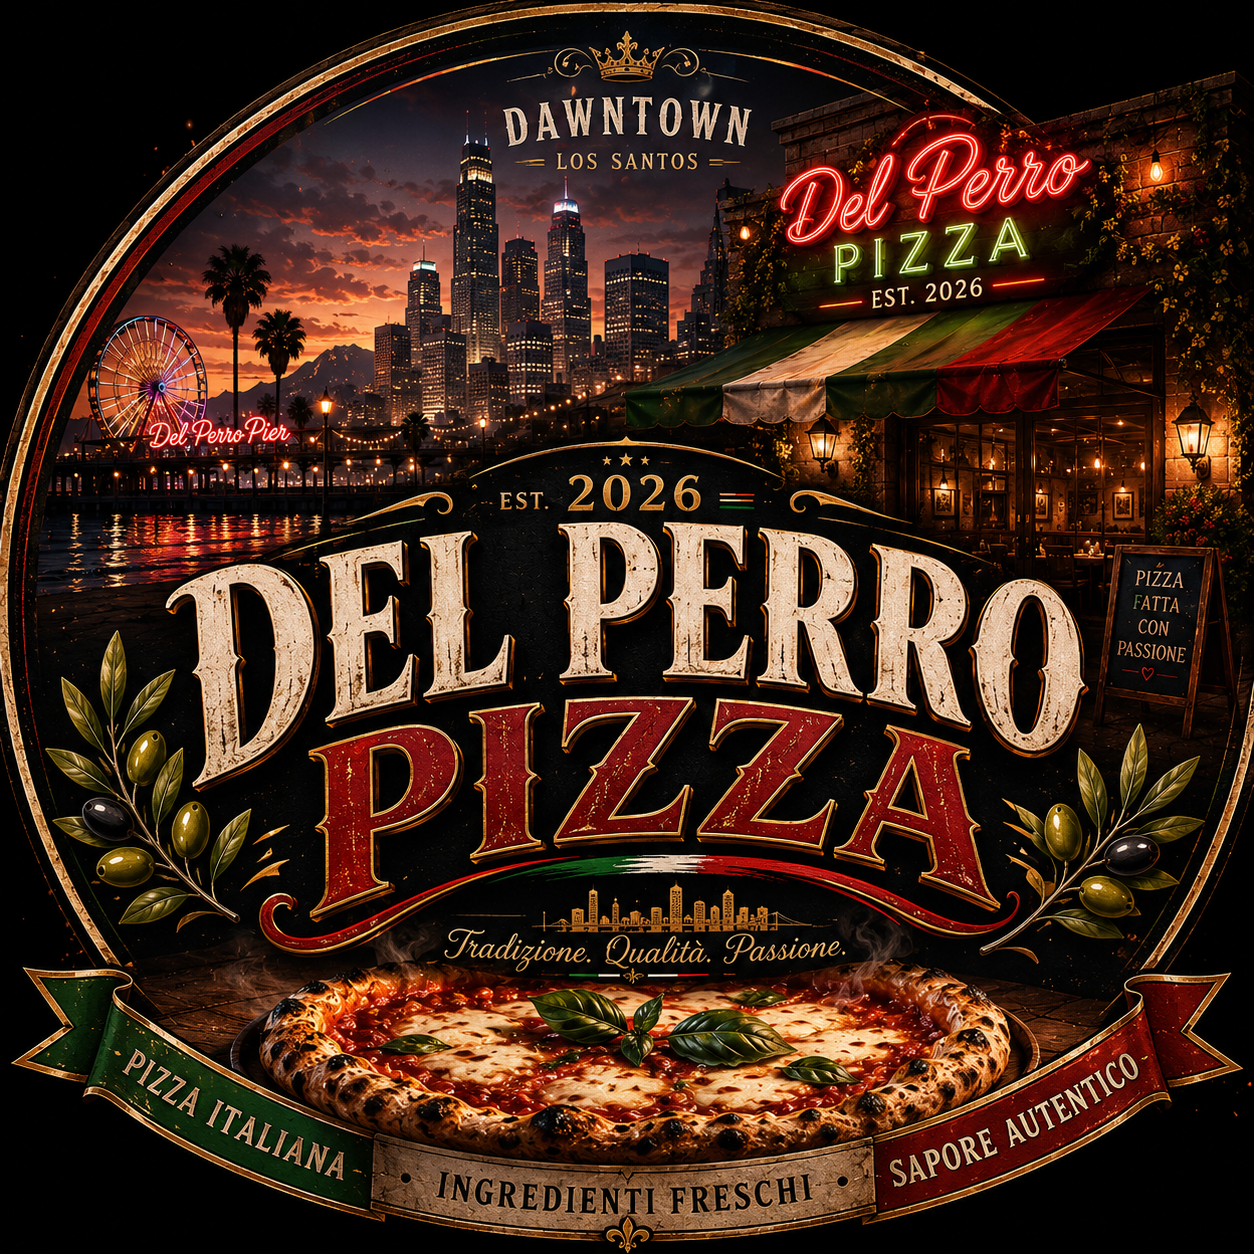
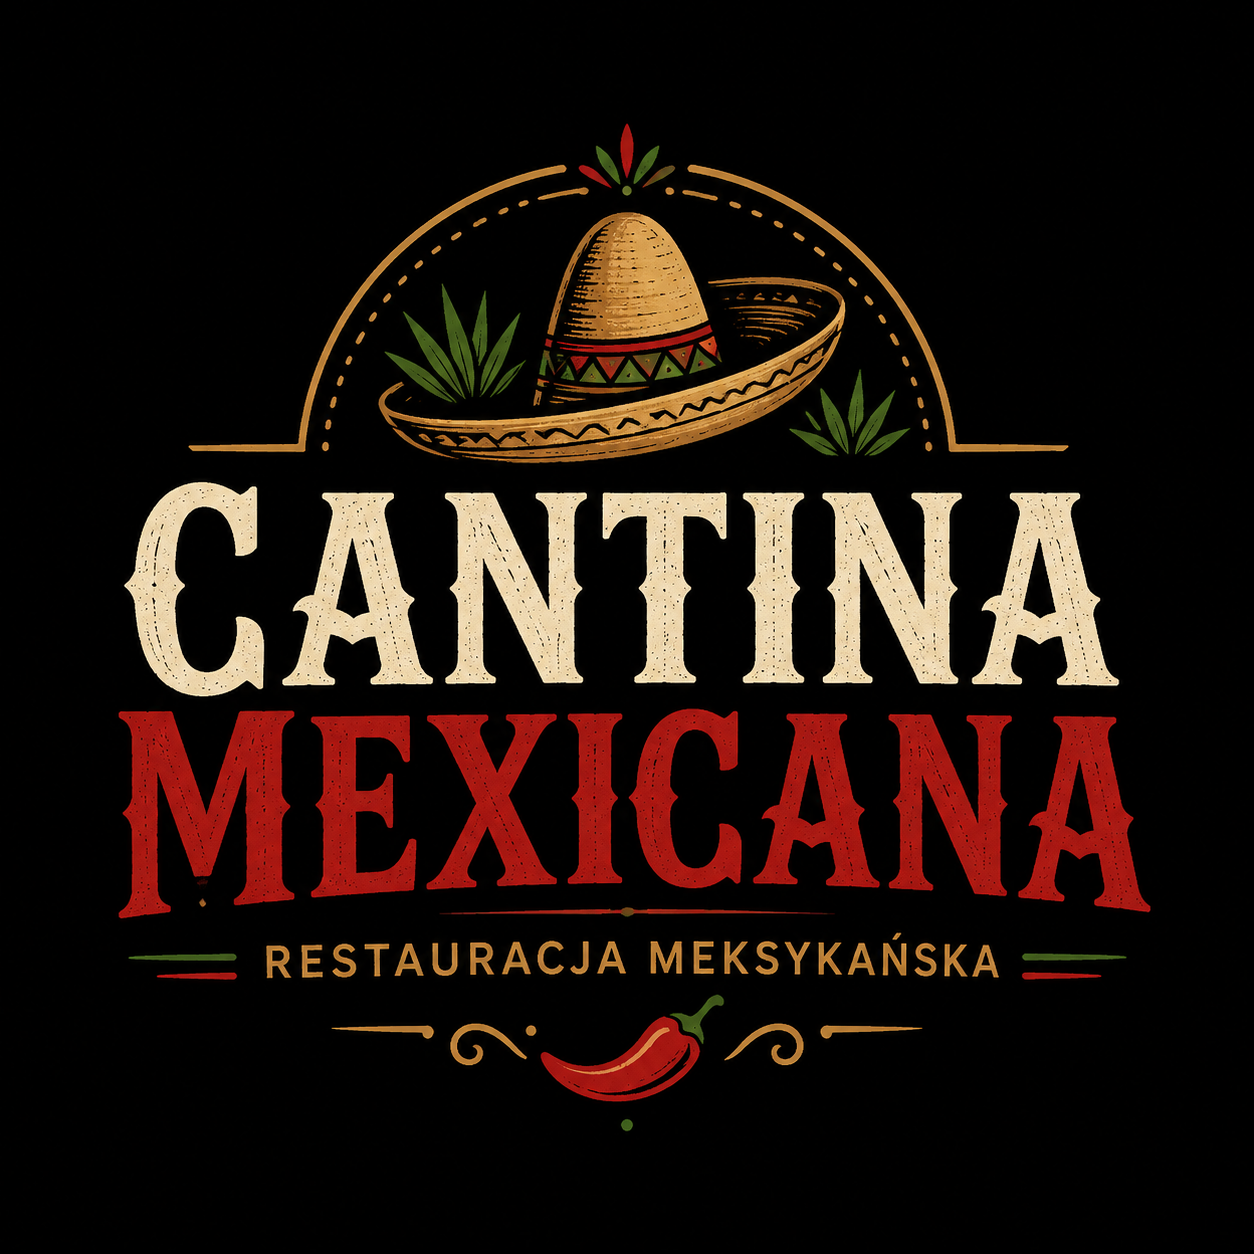
Add files via upload
1.5

diff --git a/index.html b/index.html
@@ -3,163 +3,161 @@
 <head>
   <meta charset="UTF-8" />
   <meta name="viewport" content="width=device-width, initial-scale=1.0" />
-  <title>V&G Logistic | Sandy Shores Freight Company</title>
-  <meta name="description" content="V&G Logistic — amerykański styl transportu, flota, partnerzy, rekrutacja i regulamin firmy." />
+  <title>V&G Logistic | Sandy Shores Trucking</title>
+  <meta name="description" content="V&G Logistic — amerykańska firma transportowa z Sandy Shores na GrandRP." />
   <link rel="stylesheet" href="style.css" />
 </head>
 <body>
-  <header class="topbar">
-    <a class="brand" href="#home" aria-label="V&G Logistic">
-      <img src="assets/vg-logo.svg" alt="V&G Logistic logo" />
+  <header class="site-header">
+    <a href="#home" class="brand">
+      <img src="assets/vg-logo.png" alt="V&G Logistic logo" />
+      <div>
+        <strong>V&G Logistic</strong>
+        <span>Sandy Shores Trucking</span>
+      </div>
     </a>
-    <button class="menuBtn" aria-label="Otwórz menu">☰</button>
-    <nav class="nav">
-      <a href="#about">O firmie</a>
-      <a href="#fleet">Flota</a>
+    <nav class="nav" id="nav">
+      <a href="#about">Firma</a>
+      <a href="#stats">Statystyki</a>
       <a href="#board">Zarząd</a>
       <a href="#partners">Partnerzy</a>
       <a href="#rules">Regulamin</a>
-      <a class="navCta" href="https://discord.gg/ndBvu5FVkG" target="_blank" rel="noopener">Discord</a>
+      <a class="nav-btn" href="https://discord.gg/ndBvu5FVkG" target="_blank" rel="noreferrer">Discord</a>
     </nav>
+    <button class="menu-btn" id="menuBtn" aria-label="Otwórz menu">☰</button>
   </header>
 
-  <main id="home">
-    <section class="hero">
-      <div class="heroOverlay"></div>
-      <div class="heroContent reveal">
-        <p class="eyebrow">Sandy Shores • Blaine County • American Freight</p>
-        <h1>V&G Logistic</h1>
-        <p class="lead">Transport w stylu USA. Ciężka robota, konkretna flota i dostawy robione na czas.</p>
-        <div class="heroActions">
-          <a class="btn primary" href="https://discord.gg/ndBvu5FVkG" target="_blank" rel="noopener">Dołącz do Discorda</a>
-          <a class="btn secondary" href="#rules">Zobacz regulamin</a>
+  <main>
+    <section class="hero" id="home">
+      <div class="hero-overlay"></div>
+      <div class="hero-content reveal">
+        <p class="eyebrow">Sandy Shores • San Andreas • Est. 2026</p>
+        <h1>American trucking, western grit, V&G standard.</h1>
+        <p class="lead">V&G Logistic to firma transportowa w klimacie USA — ciężki transport, szybka organizacja, profesjonalny zarząd i codzienna praca kierowców na najwyższym poziomie.</p>
+        <div class="hero-actions">
+          <a href="https://discord.gg/ndBvu5FVkG" target="_blank" rel="noreferrer" class="btn primary">Dołącz do Discorda</a>
+          <a href="#rules" class="btn secondary">Zobacz regulamin</a>
         </div>
       </div>
-      <div class="heroBadge reveal">
-        <span>V&G</span>
-        <strong>Dowozimy na czas. Zawsze.</strong>
+      <div class="hero-card reveal">
+        <img src="assets/vg-logo.png" alt="V&G Logistic" />
+        <h3>Dowozimy na czas. Zawsze.</h3>
+        <p>Nowy styl V&G Logistic: Sandy Shores, złoto, czerń, stal i klimat amerykańskiej drogi.</p>
       </div>
     </section>
 
-    <section class="stats section">
+    <section class="section" id="about">
+      <div class="section-head reveal">
+        <p class="eyebrow">Company update</p>
+        <h2>Nowy rozdział V&G Logistic</h2>
+        <p>Firma rozwija flotę, partnerstwa i zaplecze logistyczne. Działamy z Sandy Shores, ale skala pracy rośnie z każdym tygodniem.</p>
+      </div>
+      <div class="cards three">
+        <article class="card reveal"><span>01</span><h3>Flota w rozbudowie</h3><p>Aktualnie firma posiada 2 ciężarówki, a kolejne 3 są już w drodze od dealera.</p></article>
+        <article class="card reveal"><span>02</span><h3>Zaplecze techniczne</h3><p>Wkrótce ruszą dostawy części mechanicznych z innego stanu specjalizującego się w produkcji podzespołów do ciężkiego transportu.</p></article>
+        <article class="card reveal"><span>03</span><h3>Dostawy dla biznesów</h3><p>Rozszerzamy transport składników do restauracji oraz partnerów współpracujących z V&G Logistic.</p></article>
+      </div>
+    </section>
+
+    <section class="stats" id="stats">
       <div class="stat reveal"><strong data-count="1000">0</strong><span>kursów tygodniowo</span></div>
-      <div class="stat reveal"><strong data-count="2">0</strong><span>ciężarówki aktywne</span></div>
-      <div class="stat reveal"><strong data-count="3">0</strong><span>ciężarówki w drodze</span></div>
-      <div class="stat reveal"><strong>24/7</strong><span>gotowość operacyjna</span></div>
+      <div class="stat reveal"><strong data-count="2">0</strong><span>ciężarówki w firmie</span></div>
+      <div class="stat reveal"><strong data-count="3">0</strong><span>w drodze od dealera</span></div>
+      <div class="stat reveal"><strong data-count="3">0</strong><span>partnerów</span></div>
     </section>
 
-    <section id="about" class="section split">
-      <div class="sectionText reveal">
-        <p class="eyebrow">Nowy kierunek</p>
-        <h2>Amerykański charakter V&G</h2>
-        <p>V&G Logistic działa z bazy w Sandy Shores i rozwija się jako firma transportowa w klimacie amerykańskich przewoźników. Stawiamy na porządek, hierarchię, dyscyplinę i konkretną organizację pracy.</p>
-        <p>Strona, logo i cała identyfikacja firmy zostały przebudowane pod styl premium: ciemne tło, złote akcenty, klimat pustyni i ciężkiego transportu z Blaine County.</p>
+    <section class="section split">
+      <div class="reveal">
+        <p class="eyebrow">Recruitment standard</p>
+        <h2>Nie każdy nadaje się za kierownicę.</h2>
+        <p>Kandydaci na kierowców będą przechodzić rozmowy oraz badania psychologiczne, które pozwolą sprawdzić ich predyspozycje do pracy w transporcie.</p>
       </div>
-      <div class="updatePanel reveal">
-        <h3>Aktualizacja firmy</h3>
+      <div class="notice reveal">
+        <h3>Najważniejsze zasady pracy</h3>
         <ul>
-          <li>Około <b>1.000 kursów tygodniowo</b>.</li>
-          <li><b>2 ciężarówki</b> w stałej pracy.</li>
-          <li><b>3 kolejne ciężarówki</b> jadą od dealera.</li>
-          <li>Części do mechanika sprowadzane z <b>Detroit, Michigan</b> — miasta znanego z motoryzacji.</li>
-          <li>Transport składników dla restauracji i partnerów biznesowych.</li>
-          <li>Badania psychologiczne dla kandydatów na kierowców.</li>
+          <li>Punktualność i odpowiedzialność na trasie.</li>
+          <li>Dbanie o wizerunek V&G Logistic.</li>
+          <li>Pełne przestrzeganie zasad IC i OOC.</li>
         </ul>
       </div>
     </section>
 
-    <section id="fleet" class="section darkBlock">
-      <div class="sectionHead reveal">
-        <p class="eyebrow">Fleet Department</p>
-        <h2>Flota i zaplecze techniczne</h2>
-        <p>V&G Logistic inwestuje w pojazdy, serwis i sprawną obsługę tras z Sandy Shores.</p>
-      </div>
-      <div class="cards three">
-        <article class="card reveal"><span class="cardIcon">🚛</span><h3>Ciężarówki aktywne</h3><p>Na ten moment firma posiada 2 ciężarówki, które obsługują regularne zlecenia transportowe.</p></article>
-        <article class="card reveal"><span class="cardIcon">🏭</span><h3>Nowe pojazdy</h3><p>3 kolejne ciężarówki są już w drodze od dealera i wkrótce powiększą flotę V&G.</p></article>
-        <article class="card reveal"><span class="cardIcon">🔧</span><h3>Mechanik i części</h3><p>Zaplecze serwisowe będzie wspierane dostawami części z Detroit, Michigan — prosto z amerykańskiego motor city.</p></article>
-      </div>
-    </section>
-
-    <section id="board" class="section">
-      <div class="sectionHead reveal">
-        <p class="eyebrow">Company Board</p>
+    <section class="section" id="board">
+      <div class="section-head reveal">
+        <p class="eyebrow">Management</p>
         <h2>Zarząd V&G Logistic</h2>
       </div>
-      <div class="teamGrid">
-        <article class="person gold reveal"><span>Dyrektor Logistyki</span><h3>Wade Wilson</h3><p>Założyciel i właściciel V&G Logistic. Odpowiada za rozwój firmy, strategię i najważniejsze decyzje.</p></article>
-        <article class="person red reveal"><span>Zastępca Dyrektora</span><h3>Carlo Gaviria</h3><p>Wspiera zarządzanie firmą, nadzoruje działania operacyjne i dba o sprawne funkcjonowanie przedsiębiorstwa.</p></article>
-        <article class="person red reveal"><span>Zastępca Dyrektora</span><h3>Vincent Davis</h3><p>Koordynuje codzienną pracę firmy, wspiera rozwój organizacji i realizację celów V&G Logistic.</p></article>
-        <article class="person purple reveal"><span>Koordynator Logistyki</span><h3>Liza Wilson</h3><p>Odpowiada za organizację pracy zespołu, rekrutację oraz rozwój pracowników.</p></article>
-        <article class="person purple reveal"><span>Koordynator Logistyki</span><h3>Logan Reyes</h3><p>Nadzoruje szkolenia, wspiera kierowców i utrzymuje kontakt między pracownikami a zarządem.</p></article>
+      <div class="board-grid">
+        <article class="person gold reveal"><small>Dyrektor Logistyki</small><h3>Wade Wilson</h3><p>Założyciel i właściciel firmy. Odpowiada za strategię, rozwój oraz najważniejsze decyzje V&G Logistic.</p></article>
+        <article class="person red reveal"><small>Zastępca Dyrektora</small><h3>Carlo Gaviria</h3><p>Wspiera zarządzanie firmą, nadzoruje bieżące działania i dba o sprawne funkcjonowanie przedsiębiorstwa.</p></article>
+        <article class="person red reveal"><small>Zastępca Dyrektora</small><h3>Vincent Davis</h3><p>Współzarządza firmą, koordynuje działania operacyjne oraz wspiera rozwój organizacji.</p></article>
+        <article class="person purple reveal"><small>Koordynator Logistyki</small><h3>Liza Wilson</h3><p>Odpowiada za organizację pracy zespołu, rekrutację oraz rozwój pracowników.</p></article>
+        <article class="person purple reveal"><small>Koordynator Logistyki</small><h3>Logan Reyes</h3><p>Nadzoruje szkolenia, wspiera kierowców i odpowiada za kontakt między pracownikami a zarządem.</p></article>
       </div>
     </section>
 
-    <section id="partners" class="section darkBlock">
-      <div class="sectionHead reveal">
-        <p class="eyebrow">Business Network</p>
-        <h2>Partnerzy V&G Logistic</h2>
-        <p>Obsługujemy transport i współpracę biznesową z lokalnymi markami.</p>
+    <section class="partners section" id="partners">
+      <div class="section-head reveal">
+        <p class="eyebrow">Business network</p>
+        <h2>Nasi partnerzy</h2>
+        <p>Firmy i jednostki współpracujące z V&G Logistic przy dostawach, logistyce oraz obsłudze operacyjnej.</p>
       </div>
-      <div class="partnersGrid">
-        <div class="partner reveal"><img src="assets/del-perro-pizza.png" alt="Del Perro Pizza"><span>Del Perro Pizza</span></div>
-        <div class="partner reveal"><img src="assets/cantina-mexicana.png" alt="Cantina Mexicana"><span>Cantina Mexicana</span></div>
-        <div class="partner reveal"><img src="assets/ems.png" alt="EMS"><span>EMS</span></div>
-        <div class="partner reveal"><img src="assets/partner-r.png" alt="Partner"><span>Partner biznesowy</span></div>
-      </div>
-    </section>
-
-    <section class="section recruitment">
-      <div class="sectionText reveal">
-        <p class="eyebrow">Recruitment</p>
-        <h2>Rekrutacja kierowców</h2>
-        <p>Kandydaci do V&G Logistic przechodzą proces sprawdzający predyspozycje do pracy w transporcie. Liczy się kultura, odpowiedzialność i gotowość do pracy zgodnie z zasadami firmy.</p>
-      </div>
-      <div class="recruitBox reveal">
-        <h3>Wymagamy</h3>
-        <p>Aktywności, znajomości zasad RP, szacunku do zarządu, stroju roboczego, plakietki z imieniem i nazwiskiem oraz obecności na radiu podczas pracy.</p>
-        <a class="btn primary" href="https://discord.gg/ndBvu5FVkG" target="_blank" rel="noopener">Aplikuj na Discordzie</a>
+      <div class="partner-grid">
+        <article class="partner reveal">
+          <img src="assets/cantina-mexicana.png" alt="Cantina Mexicana" />
+          <h3>Cantina Mexicana</h3>
+          <p>Restauracja meksykańska</p>
+        </article>
+        <article class="partner reveal">
+          <img src="assets/ems.png" alt="EMS" />
+          <h3>EMS</h3>
+          <p>Wsparcie medyczne i bezpieczeństwo</p>
+        </article>
+        <article class="partner reveal">
+          <img src="assets/del-perro-pizza.png" alt="Del Perro Pizza" />
+          <h3>Del Perro Pizza</h3>
+          <p>Dostawy składników spożywczych</p>
+        </article>
       </div>
     </section>
 
-    <section id="rules" class="section rulesSection">
-      <div class="sectionHead reveal">
-        <p class="eyebrow">Company Rules</p>
+    <section class="section rules" id="rules">
+      <div class="section-head reveal">
+        <p class="eyebrow">Company rules</p>
         <h2>Regulamin Firmy V&G Logistic</h2>
         <p>Wszystkich pracowników obowiązuje poniższy regulamin. Dziękujemy za zaangażowanie i współpracę z firmą V&G Logistic.</p>
       </div>
-      <div class="rulesBox reveal">
+      <div class="rules-box reveal">
         <h3>I. Zasady IC (In-Character)</h3>
         <h4>1. Obowiązki pracownika</h4>
-        <ul><li>Pracownicy są zobowiązani do punktualnego pojawiania się na zmianie oraz wykonywania powierzonych im obowiązków.</li><li>Każdy pracownik ma obowiązek dbać o dobry wizerunek firmy i nie może uczestniczyć w działalności przestępczej podczas pracy.</li><li>Wszelkie dostawy muszą być realizowane zgodnie z obowiązującymi przepisami prawa.</li></ul>
+        <ul><li>Pracownicy są zobowiązani do punktualnego pojawiania się na zmianie oraz wykonywania powierzonych obowiązków.</li><li>Każdy pracownik ma obowiązek dbać o dobry wizerunek firmy i nie może uczestniczyć w działalności przestępczej podczas pracy.</li><li>Wszelkie dostawy muszą być realizowane zgodnie z obowiązującymi przepisami prawa.</li></ul>
         <h4>2. Bezpieczeństwo</h4>
         <ul><li>Zabronione jest angażowanie się w nielegalne wyścigi lub stwarzanie zagrożenia na drodze w trakcie wykonywania obowiązków.</li><li>Każdy wypadek lub incydent drogowy należy niezwłocznie zgłosić bezpośredniemu przełożonemu.</li></ul>
         <h4>3. Towary i dokumentacja</h4>
-        <ul><li>Jakiekolwiek zniszczenie ciężarówki należy zgłosić przełożonemu i wysłać zdjęcie na odpowiednim kanale aplikacji firmowej.</li></ul>
+        <ul><li>Jakiekolwiek zniszczenie ciężarówki należy niezwłocznie zgłosić przełożonemu i wysłać zdjęcie na odpowiednim kanale w aplikacji firmowej.</li></ul>
         <h4>4. Używanie pojazdów firmowych</h4>
-        <ul><li>Pojazdy firmowe mogą być wykorzystywane wyłącznie do realizacji zleceń i przewozu towarów dla V&G Logistic.</li><li>Pracownik odpowiada za stan techniczny pojazdu, tankowanie oraz ewentualne naprawy podczas pracy.</li><li>Zakaz używania pojazdów firmowych do celów prywatnych lub niezgodnych z działalnością firmy.</li></ul>
+        <ul><li>Pojazdy firmowe mogą być wykorzystywane wyłącznie do realizacji zleceń i przewozu towarów dla V&G Logistic.</li><li>Pracownik jest odpowiedzialny za stan techniczny pojazdu, tankowanie oraz ewentualne naprawy podczas pracy.</li><li>Zakaz używania pojazdów firmowych do celów prywatnych lub niezgodnych z działalnością firmy.</li></ul>
         <h4>5. Hierarchia i zgłaszanie problemów</h4>
         <ul><li>Każdy pracownik ma obowiązek słuchać poleceń przełożonych i kierownictwa firmy.</li><li>Problemy lub konflikty należy zgłaszać bezpośrednio do przełożonych.</li></ul>
         <h4>6. Nieobecność i usprawiedliwienia</h4>
-        <ul><li>Dłuższe nieobecności OOC należy zgłaszać na kanale aplikacji firmowej.</li><li>Spotkanie firmowe odbywa się co tydzień w niedzielę o 20:00.</li><li>Brak możliwości uczestnictwa w spotkaniu należy zgłosić przełożonemu.</li></ul>
+        <ul><li>Dłuższe nieobecności OOC należy zgłaszać na kanale w aplikacji firmowej.</li><li>Spotkanie firmowe odbywa się co tydzień w niedzielę o 20:00. Nieobecność należy zgłosić przełożonemu.</li></ul>
         <h3>II. Zasady OOC (Out-Of-Character)</h3>
         <h4>1. Kultura osobista i szacunek</h4>
-        <ul><li>Wszyscy członkowie firmy zobowiązani są do zachowania kultury osobistej i szacunku wobec innych graczy.</li><li>Konflikty OOC powinny być rozwiązywane cywilizowanie, najlepiej rozmową lub zgłoszeniem do administracji.</li></ul>
+        <ul><li>Wszyscy członkowie V&G Logistic zobowiązani są do zachowania kultury osobistej i szacunku wobec innych graczy.</li><li>Konflikty OOC powinny być rozwiązywane w sposób cywilizowany, najlepiej poprzez rozmowę lub zgłoszenie administracji.</li></ul>
         <h4>2. Unikanie Metagamingu i Powergamingu</h4>
-        <ul><li>Zabrania się korzystania z wiedzy OOC do wpływania na decyzje postaci w grze.</li><li>Powergaming, czyli forsowanie działań lub wyników niezgodnie z zasadami RP, jest surowo zabronione.</li></ul>
+        <ul><li>Zabrania się korzystania z wiedzy OOC do wpływania na decyzje postaci w grze.</li><li>Powergaming jest surowo zabroniony.</li></ul>
         <h4>3. Zgłaszanie problemów</h4>
-        <ul><li>Wszelkie kwestie sporne i problemy OOC należy zgłaszać zarządowi firmy lub osobie odpowiedzialnej za kwestie OOC.</li><li>Każdy problem OOC powinien być rozwiązywany z poszanowaniem innych osób i bez zbędnych emocji.</li></ul>
-        <div class="signature"><b>Napisane przez:</b><br>Dyrektor Logistyki — Wade Wilson</div>
+        <ul><li>Kwestie sporne i problemy OOC powinny być zgłaszane zarządowi firmy lub osobie odpowiedzialnej za kwestie OOC.</li><li>Każdy problem powinien być rozwiązywany z poszanowaniem innych osób i bez zbędnych emocji.</li></ul>
+        <div class="signature">Napisane przez:<br><strong>Dyrektor Logistyki — Wade Wilson</strong></div>
       </div>
     </section>
   </main>
 
   <footer class="footer">
-    <img src="assets/vg-logo.svg" alt="V&G Logistic" />
-    <p>V&G Logistic — Sandy Shores Freight Company</p>
-    <a href="https://discord.gg/ndBvu5FVkG" target="_blank" rel="noopener">discord.gg/ndBvu5FVkG</a>
+    <img src="assets/vg-logo.png" alt="V&G Logistic" />
+    <p>V&G Logistic • Sandy Shores • GrandRP</p>
+    <a href="https://discord.gg/ndBvu5FVkG" target="_blank" rel="noreferrer">Dołącz do Discorda</a>
   </footer>
-
   <script src="script.js"></script>
 </body>
 </html>

diff --git a/style.css b/style.css
@@ -1,2 +1,6 @@
-:root{--bg:#070a11;--panel:#101827;--panel2:#0d1422;--text:#f7f3e8;--muted:#aeb6c5;--gold:#f4c75d;--gold2:#a76d18;--red:#d4463f;--purple:#8b5cf6;--line:rgba(244,199,93,.25);--shadow:0 28px 90px rgba(0,0,0,.45)}
-*{box-sizing:border-box}html{scroll-behavior:smooth}body{margin:0;font-family:Inter,Segoe UI,Arial,sans-serif;background:radial-gradient(circle at top left,#172033 0,#070a11 36%,#05070c 100%);color:var(--text)}a{color:inherit;text-decoration:none}img{max-width:100%;display:block}.topbar{position:fixed;top:0;left:0;right:0;z-index:10;display:flex;align-items:center;justify-content:space-between;padding:14px 5vw;background:rgba(7,10,17,.82);backdrop-filter:blur(16px);border-bottom:1px solid rgba(255,255,255,.08)}.brand img{width:168px;height:auto}.nav{display:flex;align-items:center;gap:24px;font-weight:800;font-size:14px;text-transform:uppercase;letter-spacing:.08em}.nav a{color:#d7ddeb}.nav a:hover{color:var(--gold)}.navCta{padding:12px 18px;border-radius:999px;background:linear-gradient(135deg,var(--gold),#ffe29a);color:#111!important}.menuBtn{display:none;background:none;border:0;color:#fff;font-size:30px}.hero{min-height:100vh;position:relative;display:grid;place-items:center;padding:150px 5vw 80px;overflow:hidden;background:linear-gradient(rgba(7,10,17,.46),rgba(7,10,17,.94)),url('https://images.unsplash.com/photo-1500530855697-b586d89ba3ee?auto=format&fit=crop&w=2200&q=80') center/cover}.hero:after{content:"";position:absolute;inset:auto -5% -80px -5%;height:180px;background:linear-gradient(0deg,var(--bg),transparent)}.heroContent{position:relative;z-index:2;max-width:980px;text-align:center}.eyebrow{margin:0 0 14px;color:var(--gold);font-weight:900;text-transform:uppercase;letter-spacing:.22em;font-size:13px}.hero h1{margin:0;font-size:clamp(58px,10vw,142px);line-height:.88;text-transform:uppercase;font-family:Impact,Arial Black,sans-serif;letter-spacing:.04em;text-shadow:0 20px 50px rgba(0,0,0,.55)}.lead{font-size:clamp(19px,2.2vw,28px);color:#e7edf8;max-width:820px;margin:30px auto}.heroActions{display:flex;gap:16px;justify-content:center;flex-wrap:wrap}.btn{display:inline-flex;align-items:center;justify-content:center;padding:15px 23px;border-radius:999px;font-weight:900;text-transform:uppercase;letter-spacing:.08em;border:1px solid rgba(255,255,255,.12);transition:.2s}.btn:hover{transform:translateY(-2px)}.primary{background:linear-gradient(135deg,var(--gold),#ffe29a);color:#121212}.secondary{background:rgba(255,255,255,.08);color:#fff}.heroBadge{position:absolute;right:5vw;bottom:70px;z-index:2;background:rgba(16,24,39,.9);border:1px solid var(--line);border-radius:22px;padding:18px 22px;box-shadow:var(--shadow)}.heroBadge span{display:block;color:var(--gold);font-weight:1000;font-size:34px}.heroBadge strong{font-size:14px;color:#fff}.section{padding:96px 5vw}.stats{display:grid;grid-template-columns:repeat(4,1fr);gap:18px;max-width:1250px;margin:auto}.stat{background:linear-gradient(180deg,#111a2b,#0b111e);border:1px solid var(--line);border-radius:24px;padding:30px;text-align:center;box-shadow:var(--shadow)}.stat strong{display:block;font-size:48px;color:var(--gold);font-family:Impact,Arial Black,sans-serif}.stat span{color:var(--muted);font-weight:800;text-transform:uppercase;letter-spacing:.08em}.split,.recruitment{display:grid;grid-template-columns:1fr 1fr;gap:34px;align-items:center;max-width:1250px;margin:auto}.sectionText h2,.sectionHead h2{font-size:clamp(36px,5vw,68px);line-height:.95;margin:0 0 22px;font-family:Impact,Arial Black,sans-serif;text-transform:uppercase;letter-spacing:.04em}.sectionText p,.sectionHead p{font-size:18px;line-height:1.75;color:var(--muted)}.updatePanel,.recruitBox,.rulesBox{background:linear-gradient(180deg,#111a2b,#0b111e);border:1px solid var(--line);border-radius:30px;padding:34px;box-shadow:var(--shadow)}.updatePanel h3,.recruitBox h3{font-size:30px;margin:0 0 16px;color:var(--gold)}.updatePanel li{margin:14px 0;color:#dce4f3;line-height:1.6}.darkBlock{background:linear-gradient(180deg,rgba(255,255,255,.03),rgba(255,255,255,.015));border-top:1px solid rgba(255,255,255,.07);border-bottom:1px solid rgba(255,255,255,.07)}.sectionHead{text-align:center;max-width:850px;margin:0 auto 42px}.cards,.teamGrid,.partnersGrid{max-width:1250px;margin:auto;display:grid;gap:20px}.three{grid-template-columns:repeat(3,1fr)}.card,.person,.partner{background:linear-gradient(180deg,#111a2b,#0a101b);border:1px solid rgba(255,255,255,.09);border-radius:26px;padding:30px;box-shadow:var(--shadow)}.cardIcon{font-size:42px}.card h3,.person h3{font-size:26px;margin:18px 0 12px}.card p,.person p,.recruitBox p{color:var(--muted);line-height:1.7}.teamGrid{grid-template-columns:repeat(5,1fr)}.person{position:relative;overflow:hidden}.person:before{content:"";position:absolute;inset:0 0 auto 0;height:5px;background:var(--gold)}.person.red:before{background:var(--red)}.person.purple:before{background:var(--purple)}.person span{color:var(--gold);font-weight:900;text-transform:uppercase;font-size:12px;letter-spacing:.12em}.person.red span{color:#ff8b85}.person.purple span{color:#b8a0ff}.partnersGrid{grid-template-columns:repeat(4,1fr)}.partner{min-height:190px;display:flex;flex-direction:column;align-items:center;justify-content:center;gap:18px;text-align:center}.partner img{max-height:88px;object-fit:contain;filter:drop-shadow(0 12px 24px rgba(0,0,0,.45))}.partner span{font-weight:1000;text-transform:uppercase;letter-spacing:.08em}.rulesBox{max-width:1100px;margin:auto}.rulesBox h3{color:var(--gold);font-size:30px;margin:34px 0 18px}.rulesBox h4{font-size:21px;margin:26px 0 10px}.rulesBox li{margin:10px 0;color:#d5dbea;line-height:1.72}.signature{margin-top:38px;padding-top:24px;border-top:1px solid var(--line);text-align:right;color:var(--gold);font-size:18px}.footer{padding:50px 5vw;text-align:center;background:#05070c;border-top:1px solid rgba(255,255,255,.08)}.footer img{width:230px;margin:0 auto 16px}.footer p{color:var(--muted)}.footer a{color:var(--gold);font-weight:900}.reveal{opacity:0;transform:translateY(22px);transition:.7s ease}.reveal.visible{opacity:1;transform:none}@media(max-width:1050px){.teamGrid{grid-template-columns:repeat(2,1fr)}.stats,.partnersGrid,.three{grid-template-columns:repeat(2,1fr)}.split,.recruitment{grid-template-columns:1fr}.nav{position:absolute;top:72px;left:5vw;right:5vw;display:none;flex-direction:column;background:#101827;border:1px solid var(--line);border-radius:20px;padding:22px}.nav.open{display:flex}.menuBtn{display:block}.heroBadge{position:relative;right:auto;bottom:auto;margin-top:30px}}@media(max-width:620px){.brand img{width:125px}.hero{padding-top:120px}.stats,.partnersGrid,.three,.teamGrid{grid-template-columns:1fr}.section{padding:70px 20px}.updatePanel,.recruitBox,.rulesBox{padding:24px}.heroActions{flex-direction:column}.btn{width:100%}}
+@import url('https://fonts.googleapis.com/css2?family=Bebas+Neue&family=Inter:wght@300;400;500;600;700;800&family=Oswald:wght@400;500;600;700&display=swap');
+
+:root{--bg:#070809;--panel:#101216;--panel2:#15181f;--gold:#d6a63a;--gold2:#ffcc5c;--red:#c6342f;--purple:#7857ff;--text:#f7f1e6;--muted:#aab0ba;--line:rgba(255,255,255,.12)}
+*{box-sizing:border-box}html{scroll-behavior:smooth}body{margin:0;background:radial-gradient(circle at 20% 10%,rgba(214,166,58,.14),transparent 35%),linear-gradient(180deg,#090a0d,#050506);color:var(--text);font-family:Inter,system-ui,sans-serif;line-height:1.65}a{color:inherit;text-decoration:none}img{max-width:100%;display:block}.site-header{position:sticky;top:0;z-index:20;display:flex;align-items:center;justify-content:space-between;padding:14px 6vw;background:rgba(7,8,9,.82);backdrop-filter:blur(16px);border-bottom:1px solid var(--line)}.brand{display:flex;gap:14px;align-items:center}.brand img{width:58px;height:58px;object-fit:contain}.brand strong{display:block;font-family:Oswald,sans-serif;text-transform:uppercase;letter-spacing:1px;font-size:1.25rem}.brand span{display:block;color:var(--gold);font-size:.78rem;text-transform:uppercase;letter-spacing:2px}.nav{display:flex;gap:22px;align-items:center}.nav a{color:#dce1e8;font-weight:700;font-size:.9rem}.nav a:hover{color:var(--gold2)}.nav-btn,.btn{border:1px solid rgba(214,166,58,.55);padding:11px 18px;border-radius:999px;background:linear-gradient(135deg,rgba(214,166,58,.22),rgba(214,166,58,.04));box-shadow:0 0 25px rgba(214,166,58,.08)}.menu-btn{display:none;background:none;border:0;color:white;font-size:28px}.hero{min-height:86vh;position:relative;display:grid;grid-template-columns:1.15fr .85fr;gap:40px;align-items:center;padding:110px 6vw 70px;overflow:hidden}.hero:before{content:"";position:absolute;inset:0;background:linear-gradient(90deg,rgba(7,8,9,.95),rgba(7,8,9,.66)),url('assets/vg-logo.png') center right 8%/520px no-repeat;opacity:.9}.hero:after{content:"SANDY SHORES TRUCKING";position:absolute;bottom:10px;left:4vw;font-family:Bebas Neue,sans-serif;font-size:13vw;letter-spacing:8px;color:rgba(255,255,255,.025);white-space:nowrap}.hero>*{position:relative;z-index:1}.eyebrow{color:var(--gold2);text-transform:uppercase;letter-spacing:3px;font-weight:900;font-size:.82rem}.hero h1,.section h2{font-family:Bebas Neue,Oswald,sans-serif;line-height:.95;text-transform:uppercase;letter-spacing:1px;margin:0}.hero h1{font-size:clamp(3.6rem,8vw,8.8rem);max-width:900px}.lead{font-size:1.15rem;color:#d4d9e0;max-width:690px}.hero-actions{display:flex;gap:14px;flex-wrap:wrap;margin-top:28px}.btn{display:inline-flex;font-weight:900;text-transform:uppercase;letter-spacing:.8px}.btn.primary{background:linear-gradient(135deg,var(--gold),#6d4611);color:#120d05}.btn.secondary{background:rgba(255,255,255,.04)}.hero-card{background:linear-gradient(180deg,rgba(255,255,255,.08),rgba(255,255,255,.025));border:1px solid rgba(214,166,58,.24);border-radius:30px;padding:28px;box-shadow:0 30px 90px rgba(0,0,0,.45)}.hero-card img{margin:auto;max-height:340px;object-fit:contain}.hero-card h3{font-family:Oswald,sans-serif;font-size:2rem;text-transform:uppercase}.hero-card p{color:var(--muted)}.section{padding:90px 6vw}.section-head{max-width:850px;margin:0 auto 44px;text-align:center}.section h2{font-size:clamp(2.6rem,5vw,5.5rem)}.section-head p{color:var(--muted)}.cards,.board-grid,.partner-grid{display:grid;gap:22px}.three{grid-template-columns:repeat(3,1fr)}.card,.person,.partner,.notice,.rules-box{background:linear-gradient(180deg,rgba(255,255,255,.07),rgba(255,255,255,.025));border:1px solid var(--line);border-radius:24px;padding:28px;box-shadow:0 26px 80px rgba(0,0,0,.28)}.card span{font-family:Bebas Neue;font-size:4rem;color:rgba(214,166,58,.22)}h3,h4{font-family:Oswald,sans-serif;text-transform:uppercase;letter-spacing:.8px}.card h3,.person h3,.partner h3{font-size:1.7rem;margin:8px 0}.card p,.person p,.partner p,.notice li,.rules-box li{color:#c6ccd6}.stats{display:grid;grid-template-columns:repeat(4,1fr);gap:0;border-top:1px solid var(--line);border-bottom:1px solid var(--line);background:linear-gradient(90deg,rgba(214,166,58,.08),rgba(255,255,255,.02),rgba(198,52,47,.06))}.stat{text-align:center;padding:44px 20px;border-right:1px solid var(--line)}.stat:last-child{border-right:0}.stat strong{display:block;font-family:Bebas Neue;font-size:5rem;line-height:1;color:var(--gold2)}.stat span{text-transform:uppercase;letter-spacing:2px;color:#d7dde5;font-weight:900;font-size:.8rem}.split{display:grid;grid-template-columns:1fr 1fr;gap:35px;align-items:center}.notice{border-color:rgba(214,166,58,.3)}.board-grid{grid-template-columns:repeat(5,1fr)}.person{position:relative;overflow:hidden}.person:before{content:"";position:absolute;inset:0 0 auto;height:4px;background:var(--gold)}.person.red:before{background:var(--red)}.person.purple:before{background:var(--purple)}.person small{color:var(--gold2);font-weight:900;text-transform:uppercase;letter-spacing:2px}.person.red small{color:#ff817b}.person.purple small{color:#b4a6ff}.partner-grid{grid-template-columns:repeat(3,1fr)}.partner{text-align:center;transition:.25s transform,.25s border-color}.partner:hover{transform:translateY(-8px);border-color:rgba(214,166,58,.55)}.partner img{width:100%;height:260px;object-fit:contain;margin:0 auto 18px;border-radius:18px;background:#050505;padding:14px}.rules{background:linear-gradient(180deg,rgba(214,166,58,.04),transparent)}.rules-box{max-width:1120px;margin:auto}.rules-box h3{color:var(--gold2);font-size:1.6rem;margin-top:34px}.rules-box h4{margin-top:25px}.rules-box ul{padding-left:22px}.signature{text-align:right;color:var(--gold2);margin-top:34px;font-size:1.1rem}.footer{text-align:center;padding:45px 6vw;border-top:1px solid var(--line);background:#050506}.footer img{width:120px;margin:0 auto 10px}.footer p{color:var(--muted)}.footer a{color:var(--gold2);font-weight:900}.reveal{opacity:0;transform:translateY(22px);transition:.7s ease}.reveal.show{opacity:1;transform:none}
+@media(max-width:1050px){.hero,.split{grid-template-columns:1fr}.board-grid{grid-template-columns:repeat(2,1fr)}.three,.partner-grid,.stats{grid-template-columns:repeat(2,1fr)}.nav{display:none;position:absolute;top:86px;left:0;right:0;flex-direction:column;background:#08090b;padding:25px;border-bottom:1px solid var(--line)}.nav.open{display:flex}.menu-btn{display:block}}
+@media(max-width:640px){.site-header{padding:12px 18px}.brand img{width:48px;height:48px}.hero{padding:82px 20px 50px}.hero:before{background:linear-gradient(180deg,rgba(7,8,9,.9),rgba(7,8,9,.72)),url('assets/vg-logo.png') center/330px no-repeat}.hero h1{font-size:4rem}.section{padding:70px 20px}.three,.partner-grid,.board-grid,.stats{grid-template-columns:1fr}.stat{border-right:0;border-bottom:1px solid var(--line)}.partner img{height:210px}}

diff --git a/script.js b/script.js
@@ -1,4 +1,3 @@
-const menuBtn=document.querySelector('.menuBtn');const nav=document.querySelector('.nav');if(menuBtn){menuBtn.addEventListener('click',()=>nav.classList.toggle('open'));}
-document.querySelectorAll('.nav a').forEach(a=>a.addEventListener('click',()=>nav.classList.remove('open')));
-const io=new IntersectionObserver(entries=>{entries.forEach(e=>{if(e.isIntersecting){e.target.classList.add('visible');const n=e.target.querySelector('[data-count]');if(n&&!n.dataset.done){n.dataset.done=1;const end=parseInt(n.dataset.count,10);let cur=0;const step=Math.max(1,Math.ceil(end/70));const t=setInterval(()=>{cur+=step;if(cur>=end){cur=end;clearInterval(t)}n.textContent=cur.toLocaleString('pl-PL')},18)}}})},{threshold:.12});
-document.querySelectorAll('.reveal').forEach(el=>io.observe(el));
+const menuBtn=document.getElementById('menuBtn');const nav=document.getElementById('nav');if(menuBtn){menuBtn.addEventListener('click',()=>nav.classList.toggle('open'))}
+const reveals=document.querySelectorAll('.reveal');const io=new IntersectionObserver(entries=>{entries.forEach(e=>{if(e.isIntersecting){e.target.classList.add('show');io.unobserve(e.target)}})},{threshold:.12});reveals.forEach(el=>io.observe(el));
+const counters=document.querySelectorAll('[data-count]');const co=new IntersectionObserver(entries=>{entries.forEach(entry=>{if(!entry.isIntersecting)return;const el=entry.target;const target=Number(el.dataset.count);let current=0;const step=Math.max(1,Math.ceil(target/70));const timer=setInterval(()=>{current+=step;if(current>=target){current=target;clearInterval(timer)}el.textContent=target>=1000?current.toLocaleString('pl-PL')+'+':current},20);co.unobserve(el)})},{threshold:.4});counters.forEach(el=>co.observe(el));